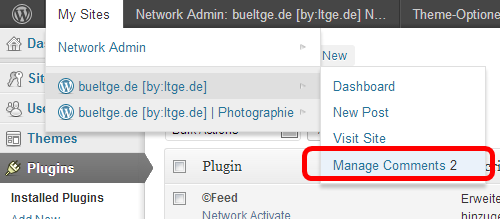
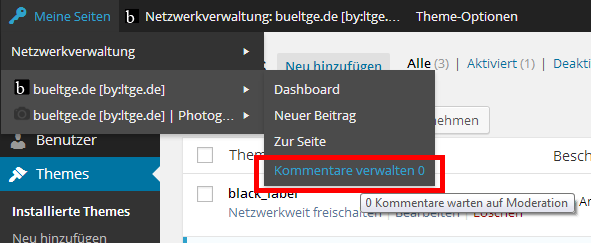
update different screenshots for new wp 3.8 admin style

diff --git a/multisite-enhancements.php b/multisite-enhancements.php
@@ -3,7 +3,7 @@
  * Plugin Name: Multisite Enhancements
  * Description: Enhance Multisite for Network Admins with different topics
  * Plugin URI:  https://github.com/bueltge/WordPress-Multisite-Enhancements
- * Version:     1.0.1-RC1
+ * Version:     1.0.1
  * Author:      Frank Bültge
  * Author URI:  http://bueltge.de
  * License:     GPLv2

diff --git a/README.md b/README.md
@@ -71,3 +71,8 @@ Please fork it, add an issue for ideas and bugs.
 ### Disclaimer
 I'm German and my English might be gruesome here and there. 
 So please be patient with me and let me know of typos or grammatical farts. Thanks
+
+***
+
+###### Bitdeli Badge for GitHub Analytics
+[![Bitdeli Badge](https://d2weczhvl823v0.cloudfront.net/bueltge/wordpress-multisite-enhancements/trend.png)](https://bitdeli.com/free "Bitdeli Badge")
